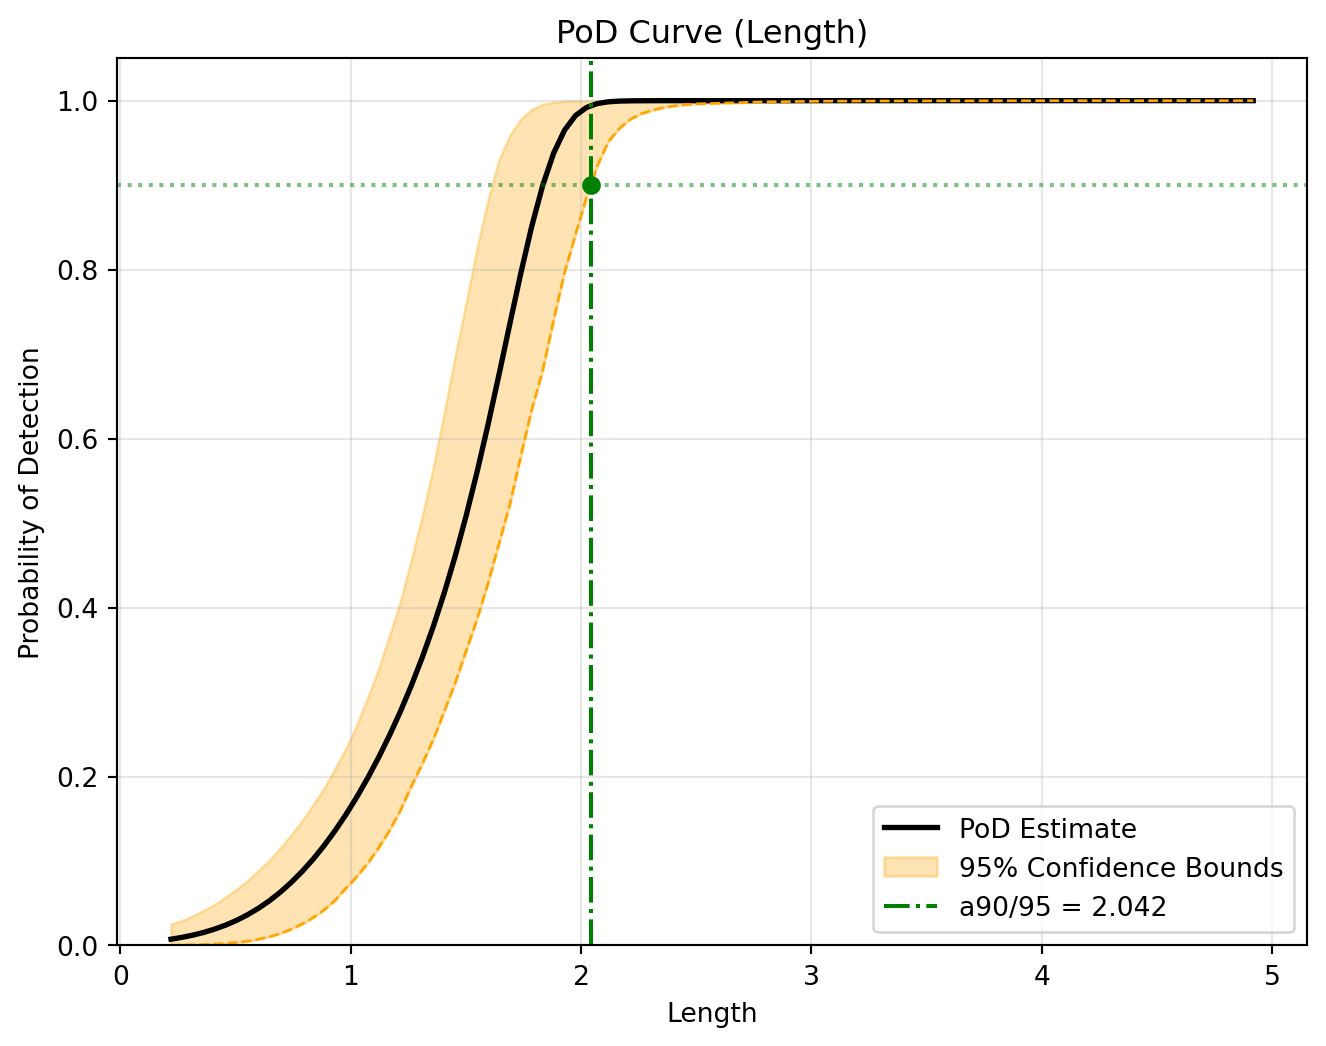
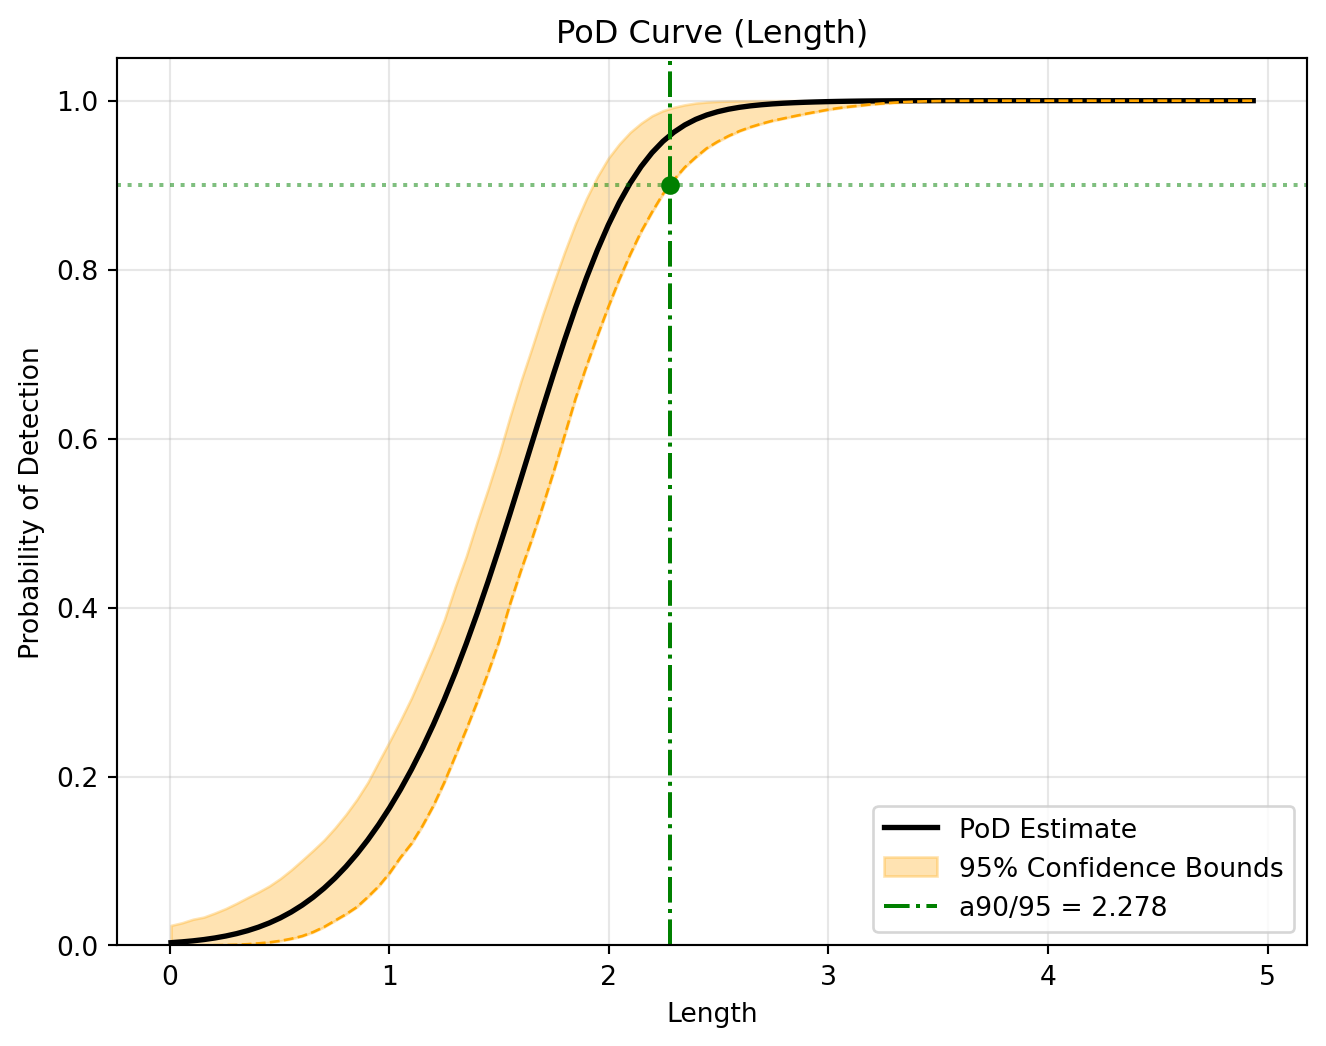
Built site for gh-pages

diff --git a/docs/optimisation.html b/docs/optimisation.html
@@ -241,7 +241,7 @@ pre > code.sourceCode > span > a:first-child::before { text-decoration: underlin
 <section id="define-a-mock-solver" class="level3">
 <h3 class="anchored" data-anchor-id="define-a-mock-solver">1. Define a “Mock” Solver</h3>
 <p>For this tutorial, we will use a Python one-liner as our “solver”. In real life, this would be your <code>matlab</code>, <code>ansys</code>, or <code>abaqus</code> command.</p>
-<div id="b6a4289c" class="cell" data-execution_count="1">
+<div id="a6077408" class="cell" data-execution_count="1">
 <div class="code-copy-outer-scaffold"><div class="sourceCode cell-code" id="cb1"><pre class="sourceCode python code-with-copy"><code class="sourceCode python"><span id="cb1-1"><a href="#cb1-1" aria-hidden="true" tabindex="-1"></a><span class="im">import</span> sys</span>
 <span id="cb1-2"><a href="#cb1-2" aria-hidden="true" tabindex="-1"></a></span>
 <span id="cb1-3"><a href="#cb1-3" aria-hidden="true" tabindex="-1"></a><span class="co"># A simple physics model: Signal = 5 + Length * 2 + Noise</span></span>
@@ -258,7 +258,7 @@ pre > code.sourceCode > span > a:first-child::before { text-decoration: underlin
 <section id="configure-the-study" class="level3">
 <h3 class="anchored" data-anchor-id="configure-the-study">2. Configure the Study</h3>
 <p>We define our input variables and the tange we want to explore.</p>
-<div id="75716f2a" class="cell" data-execution_count="2">
+<div id="e9d40b7a" class="cell" data-execution_count="2">
 <div class="code-copy-outer-scaffold"><div class="sourceCode cell-code" id="cb2"><pre class="sourceCode python code-with-copy"><code class="sourceCode python"><span id="cb2-1"><a href="#cb2-1" aria-hidden="true" tabindex="-1"></a><span class="im">from</span> digiqual.core <span class="im">import</span> SimulationStudy</span>
 <span id="cb2-2"><a href="#cb2-2" aria-hidden="true" tabindex="-1"></a></span>
 <span id="cb2-3"><a href="#cb2-3" aria-hidden="true" tabindex="-1"></a><span class="co"># Define inputs ranges</span></span>
@@ -277,7 +277,7 @@ pre > code.sourceCode > span > a:first-child::before { text-decoration: underlin
 <li><p>Checks diagnostics.</p></li>
 <li><p>If needed, generates 20 new points and repeats (up to 5 times).</p></li>
 </ol>
-<div id="a1d1defb" class="cell" data-execution_count="3">
+<div id="79534ac5" class="cell" data-execution_count="3">
 <div class="code-copy-outer-scaffold"><div class="sourceCode cell-code" id="cb3"><pre class="sourceCode python code-with-copy"><code class="sourceCode python"><span id="cb3-1"><a href="#cb3-1" aria-hidden="true" tabindex="-1"></a>study.optimise(</span>
 <span id="cb3-2"><a href="#cb3-2" aria-hidden="true" tabindex="-1"></a>    command<span class="op">=</span>SOLVER_CMD,</span>
 <span id="cb3-3"><a href="#cb3-3" aria-hidden="true" tabindex="-1"></a>    ranges<span class="op">=</span>ranges,</span>
@@ -306,33 +306,52 @@ Diagnostics flagged issues. Initiating Active Learning...
    -&gt; Executing: /Users/jt17630/Documents/DigiQual/.venv/bin/python3 -c 'import pandas as pd, numpy as np; df=pd.read_csv("sim_input.csv"); df["Signal"] = 5+ df["Length"] * 2.0 + np.random.normal(0, 1, len(df)); df.to_csv("sim_output.csv", index=False)'
 
 --- Iteration 3: Diagnostics Check ---
+&gt;&gt; Model invalid. Refining design...
+Diagnostics flagged issues. Initiating Active Learning...
+ -&gt; Strategy: Exploitation (Targeting high uncertainty regions)
+--- Running Batch 3 (20 points) ---
+   -&gt; Executing: /Users/jt17630/Documents/DigiQual/.venv/bin/python3 -c 'import pandas as pd, numpy as np; df=pd.read_csv("sim_input.csv"); df["Signal"] = 5+ df["Length"] * 2.0 + np.random.normal(0, 1, len(df)); df.to_csv("sim_output.csv", index=False)'
 
-&gt;&gt;&gt; CONVERGENCE REACHED at 60 points! &lt;&lt;&lt;
-Data updated. Total rows: 60</code></pre>
+--- Iteration 4: Diagnostics Check ---
+&gt;&gt; Model invalid. Refining design...
+Diagnostics flagged issues. Initiating Active Learning...
+ -&gt; Strategy: Exploitation (Targeting high uncertainty regions)
+--- Running Batch 4 (20 points) ---
+   -&gt; Executing: /Users/jt17630/Documents/DigiQual/.venv/bin/python3 -c 'import pandas as pd, numpy as np; df=pd.read_csv("sim_input.csv"); df["Signal"] = 5+ df["Length"] * 2.0 + np.random.normal(0, 1, len(df)); df.to_csv("sim_output.csv", index=False)'
+
+--- Iteration 5: Diagnostics Check ---
+&gt;&gt; Model invalid. Refining design...
+Diagnostics flagged issues. Initiating Active Learning...
+ -&gt; Strategy: Exploitation (Targeting high uncertainty regions)
+--- Running Batch 5 (20 points) ---
+   -&gt; Executing: /Users/jt17630/Documents/DigiQual/.venv/bin/python3 -c 'import pandas as pd, numpy as np; df=pd.read_csv("sim_input.csv"); df["Signal"] = 5+ df["Length"] * 2.0 + np.random.normal(0, 1, len(df)); df.to_csv("sim_output.csv", index=False)'
+
+&gt;&gt;&gt; WARNING: Max iterations (5) reached. &lt;&lt;&lt;
+Data updated. Total rows: 120</code></pre>
 </div>
 </div>
 </section>
 <section id="view-results" class="level3">
 <h3 class="anchored" data-anchor-id="view-results">4. View Results</h3>
 <p>Once the loop finishes, <code>study.data</code> contains all the valid simulation results.</p>
-<div id="9948f2d7" class="cell" data-execution_count="4">
+<div id="546ec89c" class="cell" data-execution_count="4">
 <div class="code-copy-outer-scaffold"><div class="sourceCode cell-code" id="cb5"><pre class="sourceCode python code-with-copy"><code class="sourceCode python"><span id="cb5-1"><a href="#cb5-1" aria-hidden="true" tabindex="-1"></a><span class="bu">print</span>(<span class="ss">f"Total Simulations Run: </span><span class="sc">{</span><span class="bu">len</span>(study.data)<span class="sc">}</span><span class="ss">"</span>)</span>
 <span id="cb5-2"><a href="#cb5-2" aria-hidden="true" tabindex="-1"></a>_ <span class="op">=</span> study.pod(poi_col<span class="op">=</span><span class="st">"Length"</span>, threshold<span class="op">=</span><span class="dv">8</span>)</span>
 <span id="cb5-3"><a href="#cb5-3" aria-hidden="true" tabindex="-1"></a>study.visualise()</span></code></pre></div><button title="Copy to Clipboard" class="code-copy-button"><i class="bi"></i></button></div>
 <div class="cell-output cell-output-stdout">
-<pre><code>Total Simulations Run: 60
+<pre><code>Total Simulations Run: 120
 Running validation...
-Validation passed. 60 valid rows ready.
+Validation passed. 120 valid rows ready.
 --- Starting Reliability Analysis (PoI: Length) ---
 1. Selecting Mean Model (Cross-Validation)...
-   -&gt; Selected Polynomial Degree: 1
+   -&gt; Selected Polynomial Degree: 2
 2. Fitting Variance Model (Kernel Smoothing)...
-   -&gt; Smoothing Bandwidth: 0.4697
+   -&gt; Smoothing Bandwidth: 0.4928
 3. Inferring Error Distribution (AIC)...
    -&gt; Selected Distribution: norm
 4. Computing PoD Curve...
 5. Running Bootstrap (1000 iterations)...
-   -&gt; a90/95 Reliability Index: 2.042
+   -&gt; a90/95 Reliability Index: 2.278
 --- Analysis Complete ---</code></pre>
 </div>
 <div class="cell-output cell-output-display">

diff --git a/docs/qs_class.html b/docs/qs_class.html
@@ -246,7 +246,7 @@ pre > code.sourceCode > span > a:first-child::before { text-decoration: underlin
 <section id="setup-flawed-data-generation" class="level3">
 <h3 class="anchored" data-anchor-id="setup-flawed-data-generation">1. Setup &amp; “Flawed” Data Generation</h3>
 <p>First, we define our physics simulation and create a dataset with a deliberate gap (missing data between 3mm and 7mm).</p>
-<div id="8d949f77" class="cell" data-execution_count="1">
+<div id="055dd49e" class="cell" data-execution_count="1">
 <div class="code-copy-outer-scaffold"><div class="sourceCode cell-code" id="cb1"><pre class="sourceCode python code-with-copy"><code class="sourceCode python"><span id="cb1-1"><a href="#cb1-1" aria-hidden="true" tabindex="-1"></a><span class="im">import</span> numpy <span class="im">as</span> np</span>
 <span id="cb1-2"><a href="#cb1-2" aria-hidden="true" tabindex="-1"></a><span class="im">import</span> pandas <span class="im">as</span> pd</span>
 <span id="cb1-3"><a href="#cb1-3" aria-hidden="true" tabindex="-1"></a><span class="im">import</span> matplotlib.pyplot <span class="im">as</span> plt</span>
@@ -307,7 +307,7 @@ pre > code.sourceCode > span > a:first-child::before { text-decoration: underlin
 <section id="diagnosis-detecting-the-issue" class="level3">
 <h3 class="anchored" data-anchor-id="diagnosis-detecting-the-issue">2. Diagnosis (Detecting the Issue)</h3>
 <p>We now ask the study manager to diagnose the health of our experiment. We expect it to flag the Input Coverage test because of the gap we created.</p>
-<div id="a6d5b7bb" class="cell" data-execution_count="2">
+<div id="b0ab8d6b" class="cell" data-execution_count="2">
 <div class="code-copy-outer-scaffold"><div class="sourceCode cell-code" id="cb3"><pre class="sourceCode python code-with-copy"><code class="sourceCode python"><span id="cb3-1"><a href="#cb3-1" aria-hidden="true" tabindex="-1"></a>study.diagnose()</span></code></pre></div><button title="Copy to Clipboard" class="code-copy-button"><i class="bi"></i></button></div>
 <div class="cell-output cell-output-stdout">
 <pre><code>Running validation...
@@ -335,7 +335,7 @@ Checking sample sufficiency...</code></pre>
 <td>Input Coverage</td>
 <td>Length</td>
 <td>Max Gap Ratio</td>
-<td>0.4229</td>
+<td>0.4379</td>
 <td>False</td>
 </tr>
 <tr class="even">
@@ -343,7 +343,7 @@ Checking sample sufficiency...</code></pre>
 <td>Input Coverage</td>
 <td>Angle</td>
 <td>Max Gap Ratio</td>
-<td>0.0555</td>
+<td>0.0480</td>
 <td>True</td>
 </tr>
 <tr class="odd">
@@ -351,7 +351,7 @@ Checking sample sufficiency...</code></pre>
 <td>Input Coverage</td>
 <td>Roughness</td>
 <td>Max Gap Ratio</td>
-<td>0.0626</td>
+<td>0.0362</td>
 <td>True</td>
 </tr>
 <tr class="even">
@@ -359,7 +359,7 @@ Checking sample sufficiency...</code></pre>
 <td>Model Fit (CV)</td>
 <td>Signal</td>
 <td>Mean R2 Score</td>
-<td>0.9969</td>
+<td>0.9977</td>
 <td>True</td>
 </tr>
 <tr class="odd">
@@ -367,7 +367,7 @@ Checking sample sufficiency...</code></pre>
 <td>Bootstrap Convergence</td>
 <td>Signal</td>
 <td>Relative CI Width</td>
-<td>0.0625</td>
+<td>0.0510</td>
 <td>True</td>
 </tr>
 </tbody>
@@ -380,7 +380,7 @@ Checking sample sufficiency...</code></pre>
 <section id="adaptive-refinement-the-fix" class="level3">
 <h3 class="anchored" data-anchor-id="adaptive-refinement-the-fix">3. Adaptive Refinement (The Fix)</h3>
 <p>Instead of manually guessing where to add points, we use refine(). The study manager automatically detects the gap and generates targeted samples to fill it. In this example, we run the <code>apply_physics()</code> function, but in reality, users should feed the new samples dataframe into their simulation engine to calculate the outcome variable. Users can then add those results into the SimulationStudy class using the <code>add_data()</code> method.</p>
-<div id="9619f461" class="cell" data-execution_count="3">
+<div id="a344b072" class="cell" data-execution_count="3">
 <div class="code-copy-outer-scaffold"><div class="sourceCode cell-code" id="cb5"><pre class="sourceCode python code-with-copy"><code class="sourceCode python"><span id="cb5-1"><a href="#cb5-1" aria-hidden="true" tabindex="-1"></a><span class="co"># Generate active learning samples (20 points to fill the gap)</span></span>
 <span id="cb5-2"><a href="#cb5-2" aria-hidden="true" tabindex="-1"></a>new_samples <span class="op">=</span> study.refine(n_points<span class="op">=</span><span class="dv">20</span>)</span>
 <span id="cb5-3"><a href="#cb5-3" aria-hidden="true" tabindex="-1"></a></span>
@@ -397,7 +397,7 @@ Data updated. Total rows: 100</code></pre>
 </div>
 </div>
 <p>Now we verify that the issue is resolved:</p>
-<div id="e3bd0abb" class="cell" data-execution_count="4">
+<div id="b79b96b0" class="cell" data-execution_count="4">
 <div class="code-copy-outer-scaffold"><div class="sourceCode cell-code" id="cb7"><pre class="sourceCode python code-with-copy"><code class="sourceCode python"><span id="cb7-1"><a href="#cb7-1" aria-hidden="true" tabindex="-1"></a><span class="co"># Re-run diagnostics to confirm the green light</span></span>
 <span id="cb7-2"><a href="#cb7-2" aria-hidden="true" tabindex="-1"></a>study.diagnose()</span></code></pre></div><button title="Copy to Clipboard" class="code-copy-button"><i class="bi"></i></button></div>
 <div class="cell-output cell-output-stdout">
@@ -426,7 +426,7 @@ Checking sample sufficiency...</code></pre>
 <td>Input Coverage</td>
 <td>Length</td>
 <td>Max Gap Ratio</td>
-<td>0.0371</td>
+<td>0.0356</td>
 <td>True</td>
 </tr>
 <tr class="even">
@@ -434,7 +434,7 @@ Checking sample sufficiency...</code></pre>
 <td>Input Coverage</td>
 <td>Angle</td>
 <td>Max Gap Ratio</td>
-<td>0.0507</td>
+<td>0.0325</td>
 <td>True</td>
 </tr>
 <tr class="odd">
@@ -442,7 +442,7 @@ Checking sample sufficiency...</code></pre>
 <td>Input Coverage</td>
 <td>Roughness</td>
 <td>Max Gap Ratio</td>
-<td>0.0533</td>
+<td>0.0362</td>
 <td>True</td>
 </tr>
 <tr class="even">
@@ -450,7 +450,7 @@ Checking sample sufficiency...</code></pre>
 <td>Model Fit (CV)</td>
 <td>Signal</td>
 <td>Mean R2 Score</td>
-<td>0.9957</td>
+<td>0.9974</td>
 <td>True</td>
 </tr>
 <tr class="odd">
@@ -458,7 +458,7 @@ Checking sample sufficiency...</code></pre>
 <td>Bootstrap Convergence</td>
 <td>Signal</td>
 <td>Relative CI Width</td>
-<td>0.0351</td>
+<td>0.0291</td>
 <td>True</td>
 </tr>
 </tbody>
@@ -480,12 +480,12 @@ Checking sample sufficiency...</code></pre>
 1. Selecting Mean Model (Cross-Validation)...
    -&gt; Selected Polynomial Degree: 2
 2. Fitting Variance Model (Kernel Smoothing)...
-   -&gt; Smoothing Bandwidth: 0.9665
+   -&gt; Smoothing Bandwidth: 0.9818
 3. Inferring Error Distribution (AIC)...
-   -&gt; Selected Distribution: norm
+   -&gt; Selected Distribution: logistic
 4. Computing PoD Curve...
 5. Running Bootstrap (1000 iterations)...
-   -&gt; a90/95 Reliability Index: 2.820
+   -&gt; a90/95 Reliability Index: 2.885
 --- Analysis Complete ---</code></pre>
 </div>
 </div>

diff --git a/docs/install.html b/docs/install.html
@@ -224,7 +224,7 @@ pre > code.sourceCode > span > a:first-child::before { text-decoration: underlin
 <h2 class="anchored" data-anchor-id="option-1-install-via-uv-recommended">Option 1: Install via uv (Recommended)</h2>
 <p>If you are managing a project with <code>uv</code>, add <code>digiqual</code> as a dependency:</p>
 <ul>
-<li>To install the latest stable release (v0.10.4):</li>
+<li>To install the latest stable release (v0.10.5):</li>
 </ul>
 <div class="code-copy-outer-scaffold"><div class="sourceCode" id="cb1"><pre class="sourceCode bash code-with-copy"><code class="sourceCode bash"><span id="cb1-1"><a href="#cb1-1" aria-hidden="true" tabindex="-1"></a><span class="ex">uv</span> add <span class="st">"digiqual"</span></span></code></pre></div><button title="Copy to Clipboard" class="code-copy-button"><i class="bi"></i></button></div>
 <ul>
@@ -236,7 +236,7 @@ pre > code.sourceCode > span > a:first-child::before { text-decoration: underlin
 </section>
 <section id="option-2-install-via-standard-pip" class="level2">
 <h2 class="anchored" data-anchor-id="option-2-install-via-standard-pip">Option 2: Install via standard pip</h2>
-<p>To install the latest stable release (v0.10.4):</p>
+<p>To install the latest stable release (v0.10.5):</p>
 <div class="code-copy-outer-scaffold"><div class="sourceCode" id="cb4"><pre class="sourceCode bash code-with-copy"><code class="sourceCode bash"><span id="cb4-1"><a href="#cb4-1" aria-hidden="true" tabindex="-1"></a><span class="ex">pip</span> install digiqual</span></code></pre></div><button title="Copy to Clipboard" class="code-copy-button"><i class="bi"></i></button></div>
 <p>To install the latest development version:</p>
 <div class="code-copy-outer-scaffold"><div class="sourceCode" id="cb5"><pre class="sourceCode bash code-with-copy"><code class="sourceCode bash"><span id="cb5-1"><a href="#cb5-1" aria-hidden="true" tabindex="-1"></a><span class="ex">pip</span> install <span class="st">"git+https://github.com/JGIBristol/digiqual.git"</span></span></code></pre></div><button title="Copy to Clipboard" class="code-copy-button"><i class="bi"></i></button></div>
